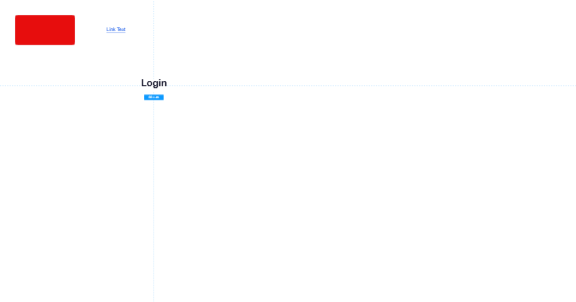
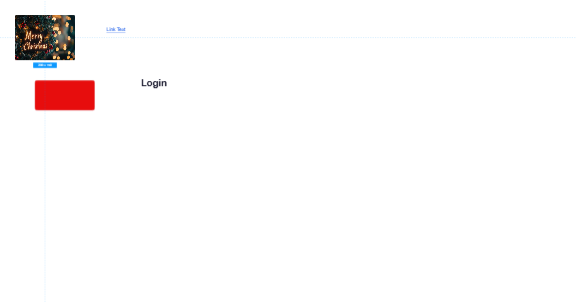
new-branch

Changed region(s): [[0.0, 0.0298, 0.1875, 0.3874], [0.25, 0.298, 0.2812, 0.3576]]

diff --git a/src/pages/login/login.css b/src/pages/login/login.css
@@ -93,8 +93,8 @@ a {
 
 .el-409111846a38 {
   position: absolute;
-  left: 50px;
-  top: 50px;
+  left: 116px;
+  top: 267px;
   width: 200px;
   height: 100px;
   background-color: #e70d0d;
@@ -121,4 +121,18 @@ a {
   font-size: 16px;
   color: #2563eb;
   text-decoration: underline;
+}
+
+.el-efd6a2b7db78 {
+  position: absolute;
+  left: 50px;
+  top: 50px;
+  width: 200px;
+  height: 150px;
+  max-width: none;
+  max-height: none;
+  object-fit: cover;
+  border-radius: 4px;
+  margin: 0;
+  padding: 0;
 }

diff --git a/src/pages/login/login.board.tsx b/src/pages/login/login.board.tsx
@@ -7,6 +7,7 @@ const Login = () => {
       <div className="el-409111846a38"></div>
       <h1 className="el-89bbd7e04198">Login</h1>
       <a href="#" className="el-555f601c4222">Link Text</a>
+      <img src="src/assets/images/neon-merry-christmas-sign-on-a-christmas-tree-free-photo.jpg" alt="neon-merry-christmas-sign-on-a-christmas-tree-free-photo.jpg" className="el-efd6a2b7db78" />
     </div>
   );
 };
